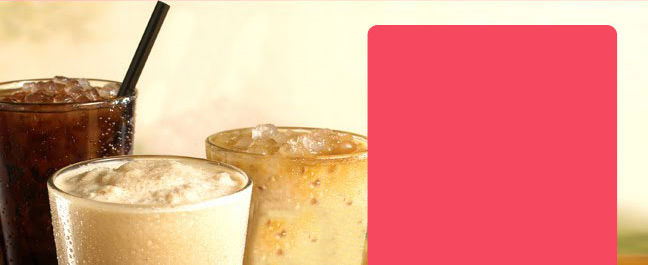
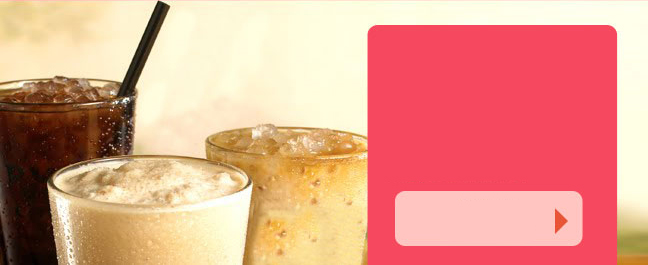
pixel adjust
adjusting pixels, margins, etc to try to account for firefox 4.
everything works ok for browsers except FF4 at this point. Text is too
large. Why????

Changed region(s): [[0.5864, 0.6943, 0.9259, 0.9358]]

diff --git a/week1/assignment1/css/main.css b/week1/assignment1/css/main.css
@@ -16,32 +16,35 @@ h1, h2 {
 h1 {
     margin-top: 0px;
     margin-bottom: 5px;
-    padding-top: 15px;
-    font-size: 2.2em;
+    padding-top: 10px;
+    font-size: 35px;
 }
 
 h2 {
-    font-size: 3.7em;
-    margin-top: 5px;
+    font-size: 60px;
+    margin: 5px 0;
 }
 
 h3 {
     margin-bottom: 3px;
+    font-size: 20px;
+    font-family: sans-serif;
 }
 
 h4 {
     float: left;
-    font-size: 1.3em;
+    font-size: 20px;
     width: 110px;
-    margin-top: 8px;
-    margin-left: 35px;
+    margin-top: 5px;
+    margin-left: 45px;
     text-align: center;
 }
 
 p {
-    font-size: .89em;
+    font-size: 14px;
     margin-top: 7px;
     line-height: 1.2em;
+    font-family: sans-serif;
 }
 
 header {
@@ -59,27 +62,13 @@ aside {
 }
 
 aside > div {
-    padding: 15px 15px 0 15px;
+    padding: 10px 15px 0 15px;
 }
 
 #btn {
-    background-color: #ffc5c1;
-    border: none;
-    border-radius: 10px;
     font-family: serif;
     font-weight: bold;
     width: 188px;
     height: 55px;
-    margin: 0 auto;
 }
 
-#arrow {
-    width: 0; 
-    height: 0; 
-    border-top: 13px solid transparent;
-    border-bottom: 13px solid transparent;
-    border-left: 13px solid #e5553a;
-    float: right;
-    margin-top: 15px;
-    margin-right: 10px;
-}

diff --git a/week1/assignment1/index.html b/week1/assignment1/index.html
@@ -10,7 +10,7 @@
         <link rel="apple-touch-icon" href="apple-touch-icon.png">
         <!-- Place favicon.ico in the root directory -->
 
-        <link rel="stylesheet" href="css/normalize.css">
+        <!-- <link rel="stylesheet" href="css/normalize.css"> -->
         <link rel="stylesheet" href="css/main.css">
         <script src="js/vendor/modernizr-2.8.3.min.js"></script>
     </head>
@@ -37,7 +37,6 @@
                                 <br>
                                 the Word!
                             </h4> 
-                            <div id="arrow"></div>
                         </div>
                     </div>
                 </aside>
@@ -47,7 +46,7 @@
         <script src="https://ajax.googleapis.com/ajax/libs/jquery/1.11.3/jquery.min.js"></script>
         <script>window.jQuery || document.write('<script src="js/vendor/jquery-1.11.3.min.js"><\/script>')</script>
         <script src="js/plugins.js"></script>
-        <script src="js/main.js"></script>
+        <!--<script src="js/main.js"></script>-->
 
         <!-- Google Analytics: change UA-XXXXX-X to be your site's ID. -->
         <script>
